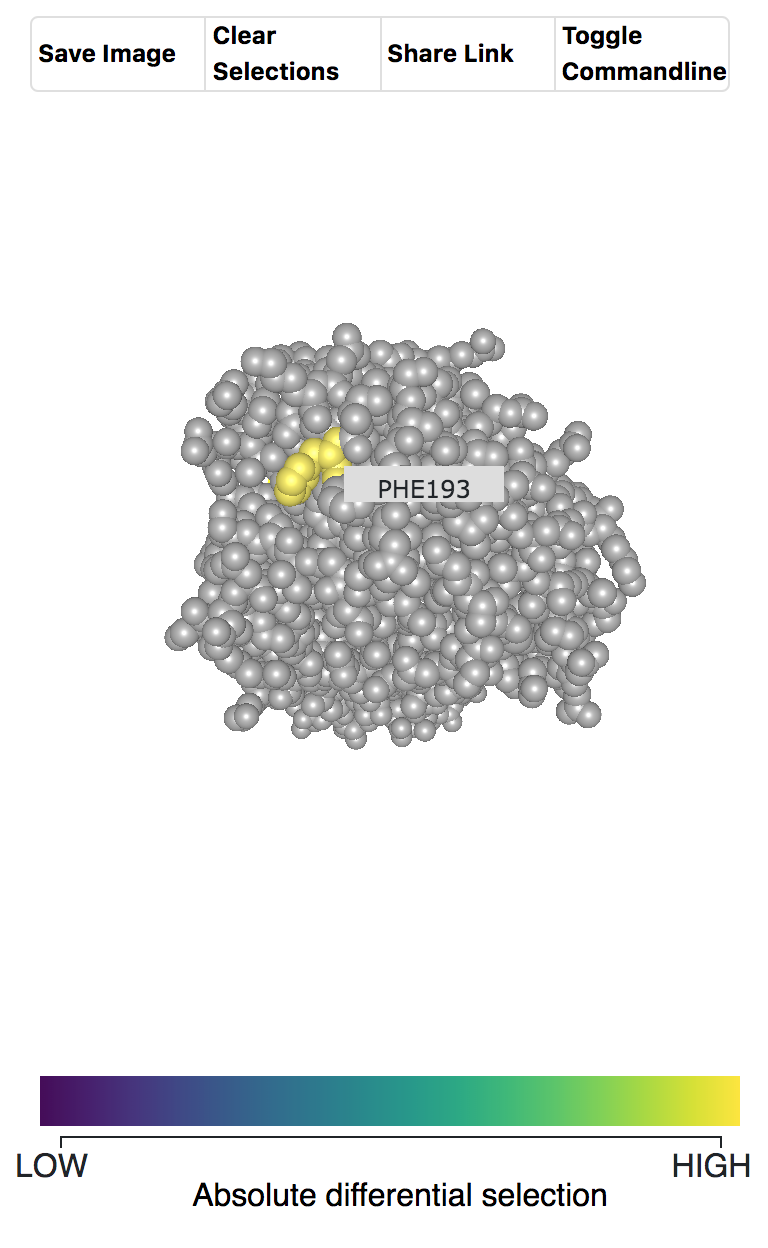
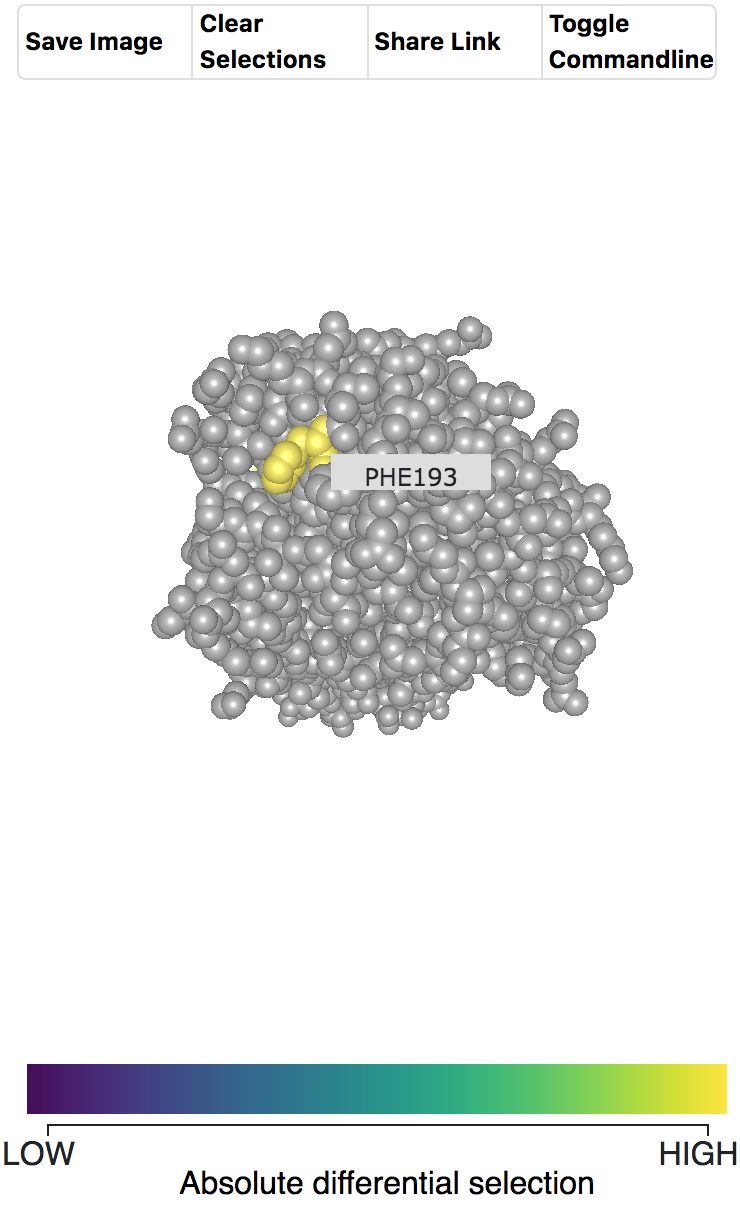
Fix figure layout
Use `\columnwidth` directive to scale figures to fit in a column and crop
figures to remove extraneous whitespace.

Changed region(s): [[0.1865, 0.2448, 0.8703, 0.6121], [0.0, 0.8569, 1.0, 1.0], [0.0311, 0.0, 0.9635, 0.0918]]

diff --git a/paper/paper.tex b/paper/paper.tex
@@ -183,20 +183,20 @@ Importantly, the development of such atlases, and the visualization of these dat
 By default these images also do not link a third relevant data stream, and that is the frequencies of amino acids observed at different sites of the protein in nature.
 Thus the task of our visualization platform is to provide an easy way to view and interact with these three data streams in a linked fashion that is also easy to use in the absence of coding expertise.
 
+\begin{figure}[h]
+	\includegraphics[width=\columnwidth]{viz-overview.png}
+	\caption{\textbf{Full view of visualization platform.}
+   The initial view of the visualization shows three panels: the laboratory-based DMS data, influenza variant frequencies in nature, and the 3D protein structure.
+	}
+	\label{overview}
+\end{figure}
+
 \section{Methods}
 
 This visualization platform links three data views together by their common shared element, site in the protein.
 The three data streams are: 1) DMS differential selection value, which is a quantitative measure of the preference for a certain amino acid at a specific site in the protein, 2) the natural amino acid frequencies of a site, a quantitative variable the describes what proportion of all sampled strains of influenza at time T have a specific amino acid at a site, and 3) the 3-D structure of protein itself, which takes linear sequence space and folds that up to reflect where certain sites of the sequence fall on the protein structure.
 We describe design decisions about how to visualize these data streams below.
 Our visualization was implemented using D3 \cite{bostock2011d3}
-
-\begin{figure}[H]
-	\includegraphics[width=1.0\textwidth]{viz-overview.png}
-	\caption{\textbf{Full view of visualization platform.}
-   The initial view of the visualization shows three panels: the laboratory-based DMS data, influenza variant frequencies in nature, and the 3D protein structure.
-	}
-	\label{overview}
-\end{figure}
 
 \subsection{DMS differential selection preferences}
 Navigation of our visualization begins with the user selecting a site in the gene that they would like to explore.
@@ -208,8 +208,8 @@ Mousing over brings up a tooltip providing additional details about the DMS data
 In particular, the tooltip gives the exact value of the differential selection measurement, since this might be hard to read from looking at the y-axis.
 The points can also be selected by clicking on them, which allows the user to enter the linked visualization, whereby the natural amino acid frequencies for that site, and that site in the 3D protein structure, will be selected.
 
-\begin{figure}[H]
-	\includegraphics[width=1.0\textwidth]{dms-brushed-tooltip.png}
+\begin{figure}[h]
+	\includegraphics[width=\columnwidth]{dms-brushed-tooltip.png}
 	\caption{\textbf{Visualization of differential selection data generated from DMS experiments.}
   The laboratory data can be explored and zoomed in on by brushing the context panel below the primary panel, giving both detail and overview to the user.
 Sites that are colored black in this panel represent sites for which there is natural frequency data.
@@ -227,8 +227,8 @@ In our visualization, we have encoded these frequencies using position.
 Selection of a site from the DMS preferences panel brings up a plotting space that shows which amino acids were observed at that position over time, and how those data changed through time.
 We use position to encode the frequencies value, and color to differentiate between different amino acid residues.
 
-\begin{figure}[H]
-	\includegraphics[width=1.0\textwidth]{frequencies-panel.png}
+\begin{figure}[h]
+	\includegraphics[width=\columnwidth]{frequencies-panel.png}
 	\caption{\textbf{Frequencies of influenza variants in nature.}
   Once a site has been selected from the laboratory data panel, this panel shows the frequencies of influenza viruses with different amino acids at that site over the last three years.
 In this example, at site 193 we see that there are two variants circulating, one has a phenylalanine (F) at this site, while the other has a serine (S).
@@ -242,8 +242,8 @@ Here, a selected site is differentiated from unselected sites by color.
 All unselected sites are uniformly grey, and the selected site is colored.
 The highlight color of the selected site is chosen according to the differential selection value of that site observed in the DMS data.
 
-\begin{figure}[H]
-	\includegraphics[width=1.0\textwidth]{3d-structure-panel.png}
+\begin{figure}[h]
+	\includegraphics[width=\columnwidth]{3d-structure-panel.png}
 	\caption{\textbf{3D protein structure with selected site highlighted.}
   3D protein structure panel, with the selected site colored according to its differential selection value.
 The tooltip also provides information about which amino acid is at highest frequency at the site.
